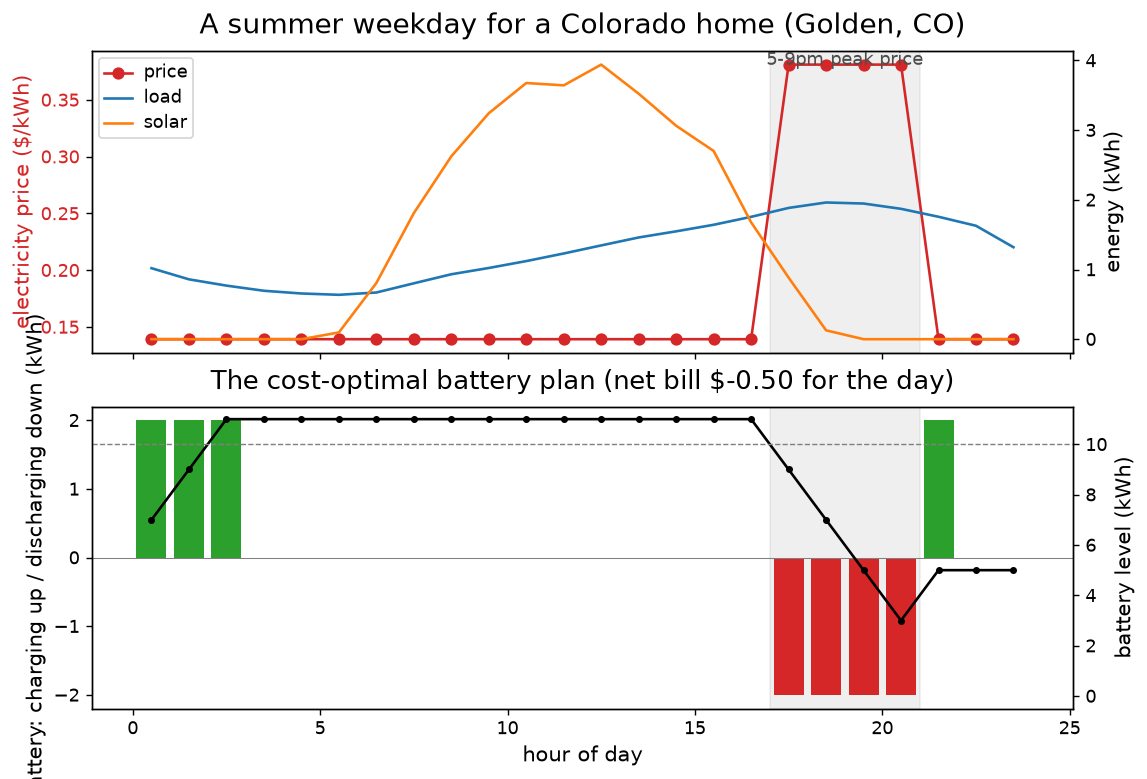
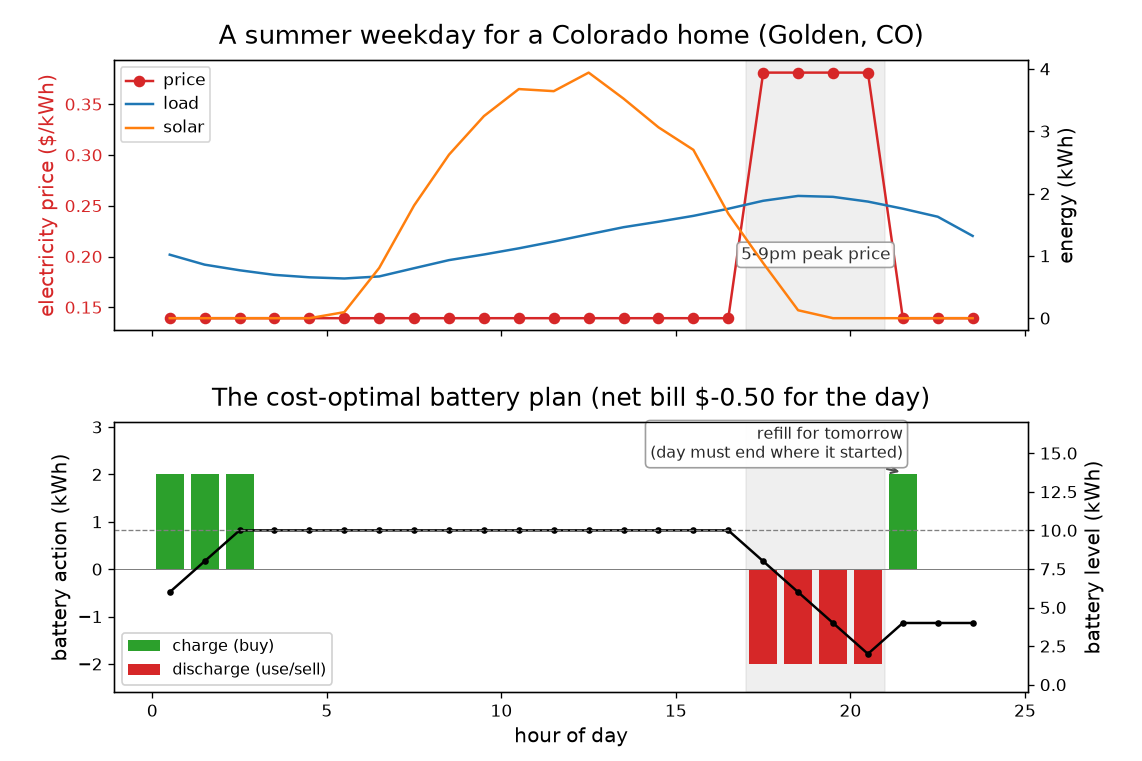
Finalize web real-day schedule figure: fix clipping, annotations, feasible SoC

diff --git a/scripts/make_real_schedule_figure.py b/scripts/make_real_schedule_figure.py
@@ -16,10 +16,18 @@ Caption suggestion (for the blog post):
   One real summer weekday for a Colorado home in Golden, CO. Top: the time-of-use
   electricity price (red), the household's electricity use (blue), and its rooftop
   solar output (orange). Bottom: the cost-optimal battery plan our solver found,
-  charging (green, up) when power is cheap or solar is plentiful and discharging
-  (red, down) into the shaded 5-9pm peak-price window, with the resulting battery
-  level overlaid. Every input is real: NREL PVWatts solar, Xcel Energy's Colorado
+  charging (green) when power is cheap or solar is plentiful and discharging (red)
+  into the shaded 5-9pm peak-price window, with the resulting battery level
+  overlaid. Every input is real: NREL PVWatts solar, Xcel Energy's Colorado
   time-of-use tariff (via URDB), and an NREL ResStock household load profile.
+
+  About the lone green bar just after the peak: the plan deliberately drains the
+  battery during the 5-9pm peak, selling at $0.381/kWh what it can replace at
+  $0.139/kWh. Because the model requires the battery to end the day at its
+  starting level, it must buy those kWh back at the first cheap hour after the
+  peak. The post-peak cheap hours are all equally priced, so the solver picked one
+  of several tied-optimal placements for that refill: its exact hour is arbitrary,
+  its existence is forced by the end-of-day constraint.
 """
 
 import sys
@@ -32,6 +40,7 @@ matplotlib.use("Agg")
 import json  # noqa: E402
 
 import numpy as np  # noqa: E402
+from matplotlib.patches import Patch  # noqa: E402
 
 sys.path.insert(0, str(Path(__file__).resolve().parent))
 from quantum_solar import BatteryProblem, dp_solve  # noqa: E402
@@ -52,6 +61,8 @@ def main():
         initial_soc=d["initial_soc"],
     )
     solution = dp_solve(problem)
+    charge, _ = problem.decode(solution.x)
+    e = problem.charge_energy
 
     fig = plot_schedule(problem, solution)  # reuse the plotting module
     ax_top, ax_bot, ax_energy, ax_soc = fig.axes[0], fig.axes[1], fig.axes[2], fig.axes[3]
@@ -63,17 +74,40 @@ def main():
         fontsize=15, pad=10)
     ax_top.set_ylabel("electricity price ($/kWh)", fontsize=12, color="C3")
     ax_energy.set_ylabel("energy (kWh)", fontsize=12)
-    ax_bot.set_ylabel("battery: charging up / discharging down (kWh)", fontsize=12)
+    ax_bot.set_ylabel("battery action (kWh)", fontsize=12)
     ax_soc.set_ylabel("battery level (kWh)", fontsize=12)
     ax_bot.set_xlabel("hour of day", fontsize=12)
 
     # Mark the 5-9pm peak-price window on both panels.
     for ax in (ax_top, ax_bot):
         ax.axvspan(PEAK_START, PEAK_END, color="0.6", alpha=0.15, zorder=0)
-    ax_top.text((PEAK_START + PEAK_END) / 2, ax_top.get_ylim()[1], " 5-9pm peak price ",
-                ha="center", va="top", fontsize=10, color="0.3")
+    y0, y1 = ax_top.get_ylim()
+    ax_top.text((PEAK_START + PEAK_END) / 2, y0 + 0.28 * (y1 - y0), "5-9pm peak price",
+                ha="center", va="center", fontsize=10, color="0.2",
+                bbox=dict(boxstyle="round,pad=0.25", fc="white", ec="0.6", alpha=0.9))
 
-    # Readable ticks and legend at blog-embed width.
+    # Convey charge/discharge meaning through a legend on the bottom panel.
+    ax_bot.legend(
+        handles=[Patch(fc="C2", label="charge (buy)"),
+                 Patch(fc="C3", label="discharge (use/sell)")],
+        loc="lower left", fontsize=9.5, framealpha=0.9)
+
+    # Give the battery-level (SoC) line the lower ~60% of the panel so the top is
+    # clear for the refill annotation (presentation only; the data is unchanged).
+    ax_soc.set_ylim(-0.5, 1.7 * problem.capacity)
+    ax_bot.set_ylim(-1.3 * e, 1.55 * e)
+
+    # Annotate the post-peak refill bar, in the now-clear top area directly above it.
+    refill = next((i for i in range(len(charge)) if charge[i] and i >= PEAK_END), None)
+    if refill is not None:
+        bar_x = refill + 0.5
+        ax_bot.annotate(
+            "refill for tomorrow\n(day must end where it started)",
+            xy=(bar_x, 1.02 * e), xytext=(bar_x, 1.32 * e),
+            ha="right", va="center", fontsize=9.5, color="0.15",
+            arrowprops=dict(arrowstyle="->", color="0.3", lw=1.3),
+            bbox=dict(boxstyle="round,pad=0.3", fc="white", ec="0.6", alpha=0.95))
+
     for ax in (ax_top, ax_bot, ax_energy, ax_soc):
         ax.tick_params(labelsize=10)
     legend = ax_energy.get_legend()
@@ -81,10 +115,12 @@ def main():
         for text in legend.get_texts():
             text.set_fontsize(10)
 
-    fig.set_size_inches(9.2, 6.2)
+    # Explicit margins so nothing clips at the committed pixel size (no bbox_inches).
+    fig.set_size_inches(9.6, 6.4)
+    fig.subplots_adjust(left=0.10, right=0.90, top=0.92, bottom=0.09, hspace=0.34)
     OUT.parent.mkdir(parents=True, exist_ok=True)
-    fig.savefig(OUT, dpi=126, bbox_inches="tight")  # ~1140px wide
-    print(f"wrote {OUT} (net bill ${solution.true_energy:.2f})")
+    fig.savefig(OUT, dpi=119)  # 9.6 * 119 = 1142 px wide
+    print(f"wrote {OUT} (net bill ${solution.true_energy:.2f}, feasible={solution.feasible})")
 
 
 if __name__ == "__main__":